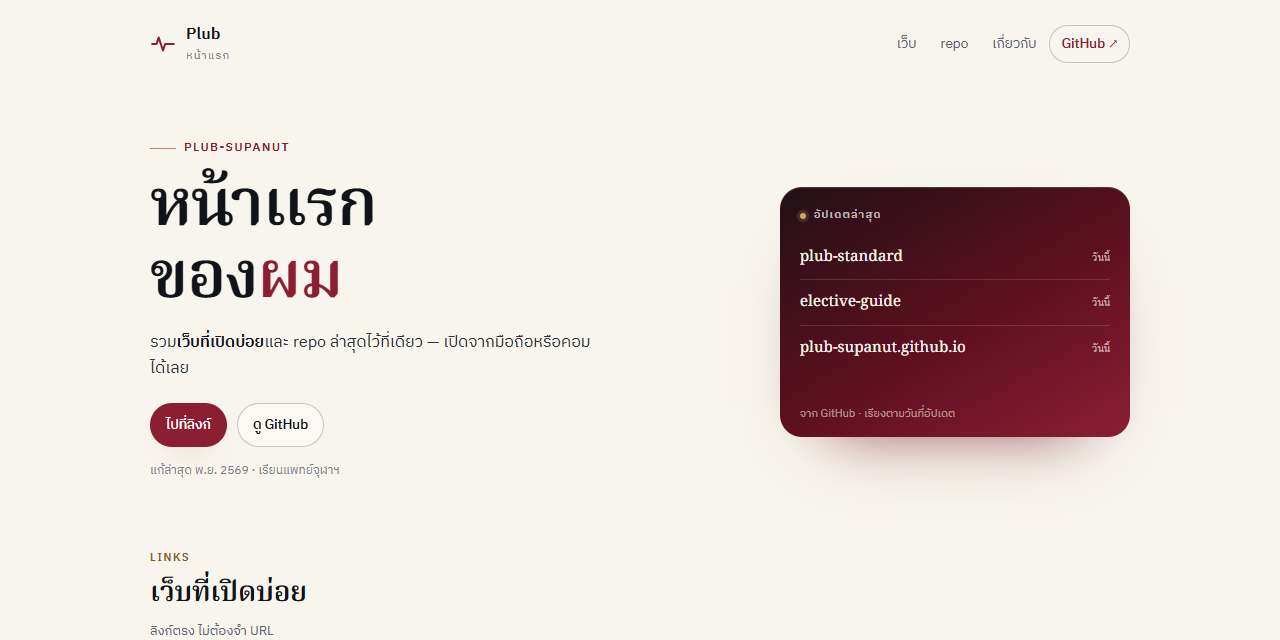
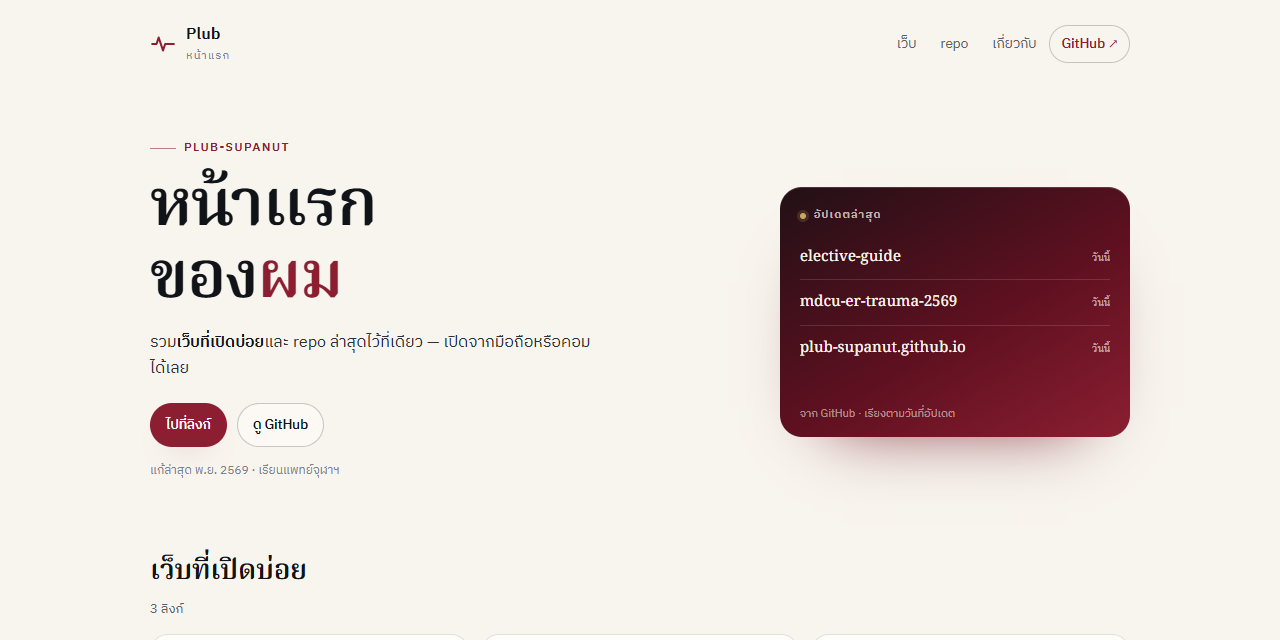
feat: polish hub layout, refresh preview, drop Verdict row

Changed region(s): [[0.0938, 0.8438, 0.25, 1.0], [0.625, 0.4375, 0.75, 0.5], [0.625, 0.375, 0.7188, 0.4062]]

diff --git a/index.html b/index.html
@@ -145,9 +145,8 @@ footer a:hover{color:var(--ink)}
     <section class="block" id="links" aria-labelledby="links-title">
       <div class="sec-head">
         <div>
-          <div class="sec-kicker">Links</div>
           <h2 id="links-title">เว็บที่เปิดบ่อย</h2>
-          <p>ลิงก์ตรง ไม่ต้องจำ URL</p>
+          <p>3 ลิงก์</p>
         </div>
       </div>
       <div class="cards">
@@ -172,7 +171,6 @@ footer a:hover{color:var(--ink)}
     <section class="block" id="repos" aria-labelledby="repos-title">
       <div class="sec-head">
         <div>
-          <div class="sec-kicker">Repositories</div>
           <h2 id="repos-title">Repo ล่าสุด</h2>
           <p>ดึงจาก GitHub อัตโนมัติ — repo ใหม่ขึ้นเอง</p>
         </div>
@@ -184,7 +182,6 @@ footer a:hover{color:var(--ink)}
     <section class="block" id="about" aria-labelledby="about-title">
       <div class="sec-head">
         <div>
-          <div class="sec-kicker">About</div>
           <h2 id="about-title">เกี่ยวกับ</h2>
         </div>
       </div>
